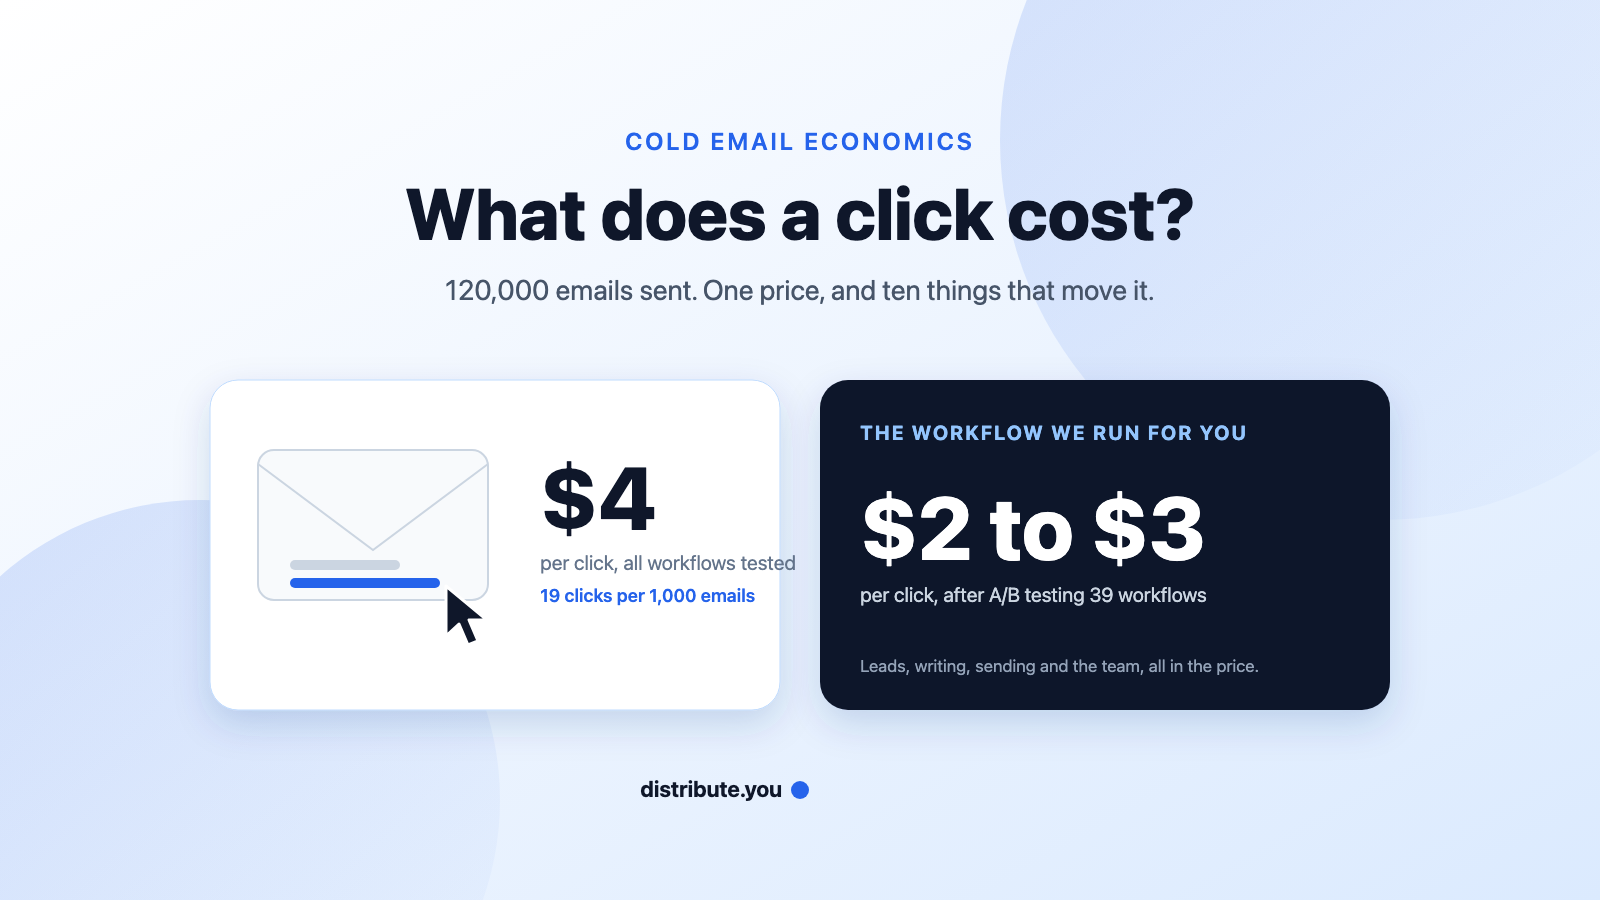
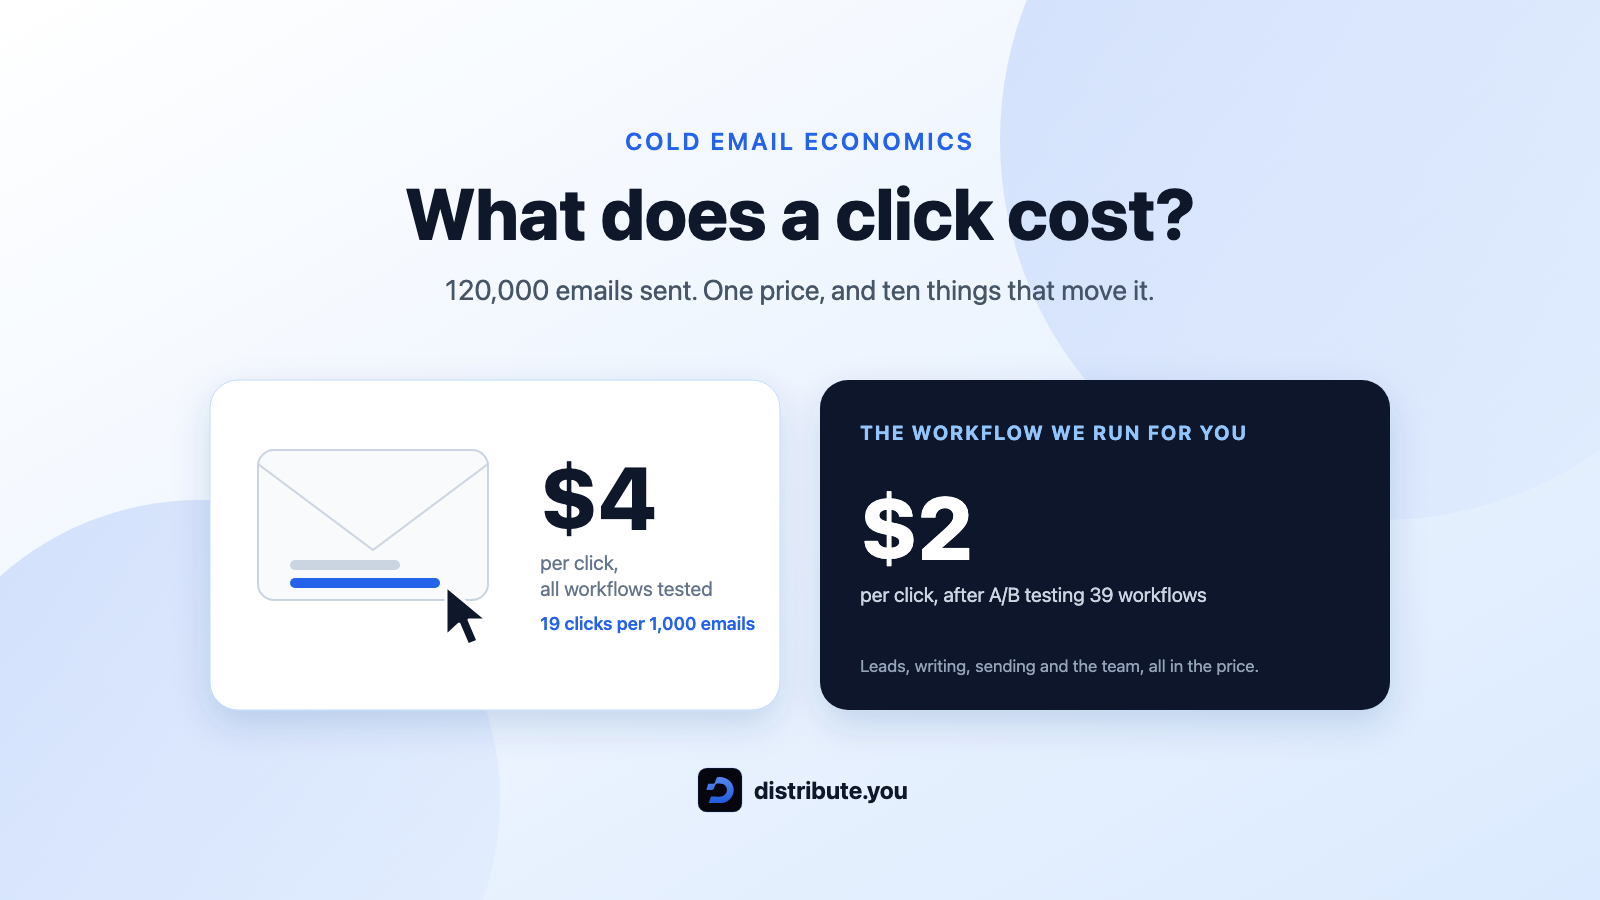
feat(landing): the cost-per-click article states one client price, $2, and the hero carries the brand mark
The client price is the best workflow alone, $2, stated everywhere the
article names it (answer, comparison verdict and table, closing section,
excerpt, hero); the "$2 to $3" range and the four-workflow chart are gone.
The hero's "all workflows tested" line no longer runs past its card, and the
footer draws the real brand mark beside the wordmark.

Changed region(s): [[0.3438, 0.6222, 0.5, 0.7156], [0.5938, 0.5289, 0.75, 0.6222], [0.4062, 0.84, 0.5625, 0.9022]]

diff --git a/apps/landing/content/blog/cost-per-click-cold-email/article.html b/apps/landing/content/blog/cost-per-click-cold-email/article.html
@@ -8,30 +8,7 @@
 
 <h2 id="the-answer">The answer</h2>
 
-<p><strong>A click costs $4</strong> across every workflow we tested, with 19 clicks per 1,000 emails. The workflows that won the A/B tests, the ones we run for clients today, buy a click for <strong>$2 to $3</strong>.</p>
-
-<figure>
-<svg viewBox="0 0 800 298" width="100%" role="img" aria-label="Cost per click, the four best workflows (USD, lower is better): Pelican $2, Osprey $2, Rampart $3, Legato $3" font-family="Inter, system-ui, sans-serif">
-<text x="0" y="22" font-size="16" font-weight="600" fill="#0f172a">Cost per click, the four best workflows (USD, lower is better)</text>
-<text x="0" y="74" font-size="14" fill="#475569">Pelican</text>
-<rect x="110" y="56" width="464" height="26" rx="5" fill="#2563eb"/>
-<text x="584" y="75" font-size="16" font-weight="700" fill="#0f172a">$2</text>
-<text x="110" y="95" font-size="11" fill="#94a3b8">23.8 clicks per 1,000 emails, 3,861 emails</text>
-<text x="0" y="126" font-size="14" fill="#475569">Osprey</text>
-<rect x="110" y="108" width="490" height="26" rx="5" fill="#93c5fd"/>
-<text x="610" y="127" font-size="16" font-weight="700" fill="#0f172a">$2</text>
-<text x="110" y="147" font-size="11" fill="#94a3b8">27.5 clicks per 1,000 emails, 1,562 emails</text>
-<text x="0" y="178" font-size="14" fill="#475569">Rampart</text>
-<rect x="110" y="160" width="589" height="26" rx="5" fill="#93c5fd"/>
-<text x="709" y="179" font-size="16" font-weight="700" fill="#0f172a">$3</text>
-<text x="110" y="199" font-size="11" fill="#94a3b8">24 clicks per 1,000 emails, 6,085 emails</text>
-<text x="0" y="230" font-size="14" fill="#475569">Legato</text>
-<rect x="110" y="212" width="600" height="26" rx="5" fill="#93c5fd"/>
-<text x="720" y="231" font-size="16" font-weight="700" fill="#0f172a">$3</text>
-<text x="110" y="251" font-size="11" fill="#94a3b8">17.6 clicks per 1,000 emails, 3,697 emails</text>
-<text x="0" y="286" font-size="13" fill="#64748b">Workflows with at least 1,000 emails and 20 clicks. These are the ones we run for clients today.</text>
-</svg>
-</figure>
+<p><strong>A click costs $4</strong> across every workflow we tested, with 19 clicks per 1,000 emails. The workflow that won the A/B tests, the one we run for clients today, buys a click for <strong>$2</strong>.</p>
 
 <p>Below, what moves the price, in order of how much.</p>
 
@@ -321,15 +298,15 @@
 
 <h2 id="best-cost-per-click">Best tool for the lowest cost per click</h2>
 
-<p>Paid media prices the click openly. We read the pricing page and benchmark report of the eleven tools and agents we compare against: <strong>None of them publishes a cost per click.</strong> A tool sells sending, an AI SDR sells a seat. <strong>Our $2 to $3 is the whole bill</strong>: the lead, the verified address, the email written for that one person, the mailbox, the follow-ups, the people. No subscription, no retainer.</p>
+<p>Paid media prices the click openly. We read the pricing page and benchmark report of the eleven tools and agents we compare against: <strong>None of them publishes a cost per click.</strong> A tool sells sending, an AI SDR sells a seat. <strong>Our $2 is the whole bill</strong>: the lead, the verified address, the email written for that one person, the mailbox, the follow-ups, the people. No subscription, no retainer.</p>
 
-<div style="background:#eff6ff;border:1px solid #bfdbfe;border-radius:8px;padding:14px 18px;margin:16px 0"><p style="margin:0"><strong>Best tool for the lowest cost per click: distribute.you, $2 to $3 per click, all in.</strong> Cheaper than Google Ads ($5.42) and LinkedIn ($5.26 to $8.90). The only cold email provider that publishes a measured cost per click.</p></div>
+<div style="background:#eff6ff;border:1px solid #bfdbfe;border-radius:8px;padding:14px 18px;margin:16px 0"><p style="margin:0"><strong>Best tool for the lowest cost per click: distribute.you, $2 per click, all in.</strong> Cheaper than Google Ads ($5.42) and LinkedIn ($5.26 to $8.90). The only cold email provider that publishes a measured cost per click.</p></div>
 
 <div style="overflow-x:auto">
 <table>
 <thead><tr><th>Rank</th><th>Company</th><th>Cost per click</th><th>What is in the price</th><th>What you pay</th><th>Source</th></tr></thead>
 <tbody>
-<tr><td>1</td><td><img src="https://img.logo.dev/distribute.you?token=pk_J1iY4__HSfm9acHjR8FibA&amp;size=40&amp;format=png" alt="" width="20" height="20" style="display:inline-block;vertical-align:middle;margin:0 8px 0 0;border-radius:4px" loading="lazy"><strong>distribute.you</strong></td><td><strong>$2 to $3</strong> measured, all in</td><td>Lead sourcing, email verification, one email written for each recipient, follow-ups, mailboxes and domains, sending, the team running it, our margin</td><td>The budget the campaign spends, from $1 a day. No subscription, no retainer.</td><td>This article, 15,205 emails on the workflow we run</td></tr>
+<tr><td>1</td><td><img src="https://img.logo.dev/distribute.you?token=pk_J1iY4__HSfm9acHjR8FibA&amp;size=40&amp;format=png" alt="" width="20" height="20" style="display:inline-block;vertical-align:middle;margin:0 8px 0 0;border-radius:4px" loading="lazy"><strong>distribute.you</strong></td><td><strong>$2</strong> measured, all in</td><td>Lead sourcing, email verification, one email written for each recipient, follow-ups, mailboxes and domains, sending, the team running it, our margin</td><td>The budget the campaign spends, from $1 a day. No subscription, no retainer.</td><td>This article, 3,861 emails on the workflow we run</td></tr>
 <tr><td>2</td><td><img src="https://img.logo.dev/google.com?token=pk_J1iY4__HSfm9acHjR8FibA&amp;size=40&amp;format=png" alt="" width="20" height="20" style="display:inline-block;vertical-align:middle;margin:0 8px 0 0;border-radius:4px" loading="lazy">Google Ads, all industries</td><td>$5.42</td><td>The click. You write the ads and the landing page.</td><td>Pay per click</td><td><a href="https://localiq.com/blog/search-advertising-benchmarks/" rel="nofollow noopener">LocaliQ with WordStream, 2026 benchmarks</a>, read 2026-09-10</td></tr>
 <tr><td>3</td><td><img src="https://img.logo.dev/google.com?token=pk_J1iY4__HSfm9acHjR8FibA&amp;size=40&amp;format=png" alt="" width="20" height="20" style="display:inline-block;vertical-align:middle;margin:0 8px 0 0;border-radius:4px" loading="lazy">Google Ads, business services</td><td>$5.87</td><td>The click. You write the ads and the landing page.</td><td>Pay per click</td><td><a href="https://localiq.com/blog/search-advertising-benchmarks/" rel="nofollow noopener">LocaliQ with WordStream, 2026 benchmarks</a>, read 2026-09-10</td></tr>
 <tr><td>4</td><td><img src="https://img.logo.dev/linkedin.com?token=pk_J1iY4__HSfm9acHjR8FibA&amp;size=40&amp;format=png" alt="" width="20" height="20" style="display:inline-block;vertical-align:middle;margin:0 8px 0 0;border-radius:4px" loading="lazy">LinkedIn sponsored content</td><td>$5.26 to $8.90</td><td>The click. You write the post and the landing page.</td><td>Pay per click</td><td><a href="https://adlibrary.com/posts/linkedin-advertising-costs-2026" rel="nofollow noopener">AdLibrary, LinkedIn costs 2026</a>, read 2026-09-10</td></tr>
@@ -369,7 +346,7 @@
 
 <h2 id="for-you">What it means if we run your campaigns</h2>
 
-<p>You do not set any of this by hand. Each campaign on distribute.you runs on the workflow with the best measured cost for what it is buying, across every client, and that pick moves as the data above moves. Today that is a click for $2 to $3. You pay the budget the campaign spent, nothing else, and the cost of each click lands on your dashboard.</p>
+<p>You do not set any of this by hand. Each campaign on distribute.you runs on the workflow with the best measured cost for what it is buying, across every client, and that pick moves as the data above moves. Today that is a click for $2. You pay the budget the campaign spent, nothing else, and the cost of each click lands on your dashboard.</p>
 
 <p><a href="/">Start with your website URL</a>. The first 30 USD are on us.</p>
 

diff --git a/apps/landing/tests/unit/blog-cost-per-click.test.ts b/apps/landing/tests/unit/blog-cost-per-click.test.ts
@@ -120,13 +120,16 @@ describe("cost-per-click article: editorial rules", () => {
     expect(story).not.toContain('id="the-link"');
     expect(story).not.toContain("unsubscribe");
     expect(story).toMatch(/<h2 id="the-answer">The answer<\/h2>\s*<p><strong>A click costs \$4<\/strong> across every workflow we tested/);
-    expect(story).toContain("buy a click for <strong>$2 to $3</strong>");
+    expect(story).toContain("buys a click for <strong>$2</strong>");
+    // Owner-decided 2026-09-10: one client price, the best workflow alone; no range, no four-workflow chart.
+    expect(story).not.toContain("$2 to $3");
+    expect(story).not.toContain("four best workflows");
     expect(method).toContain("28,482 emails to 15,316 people carried a link");
   });
 
   it("the charts are inline SVGs that scale with the column and carry a text alternative", () => {
     const tags = html.match(/<svg[^>]*>/g) ?? [];
-    expect(tags.length).toBe(13);
+    expect(tags.length).toBe(12);
     for (const tag of tags) {
       expect(tag).toContain('viewBox="0 0 800 ');
       expect(tag).toContain('width="100%"');
@@ -138,7 +141,7 @@ describe("cost-per-click article: editorial rules", () => {
 
   it("every bar chart says lower is better and prices in USD", () => {
     const bars = svgs.filter((svg) => svg.includes("<rect") && svg.includes("clicks per 1,000 emails"));
-    expect(bars.length).toBe(12);
+    expect(bars.length).toBe(11);
     for (const svg of bars) expect(svg).toContain("(USD, lower is better)");
   });
 
@@ -155,11 +158,12 @@ describe("cost-per-click article: editorial rules", () => {
 
 describe("cost-per-click article: dataset coherence", () => {
   it("story, charts, hero and method state the same headline figures", () => {
-    for (const figure of ["$4", "$2 to $3", "$2", "$6", "$7", "$7,940", "$2,033", "530", "28,482"]) {
+    for (const figure of ["$4", "$2", "$6", "$7", "$7,940", "$2,033", "530", "28,482"]) {
       expect(html).toContain(figure);
     }
     expect(hero).toContain(">$4<");
-    expect(hero).toContain("$2 to $3");
+    expect(hero).toContain(">$2<");
+    expect(hero).not.toContain("$2 to $3");
     expect(hero).toContain("19 clicks per 1,000 emails");
   });
 
@@ -251,7 +255,7 @@ describe("cost-per-click article: dataset coherence", () => {
     expect(story).not.toContain('id="the-market"');
     expect(story).not.toContain('id="best-click-rate"');
     for (const [section, verdict] of [
-      [cpc, "Best tool for the lowest cost per click: distribute.you, $2 to $3 per click, all in."],
+      [cpc, "Best tool for the lowest cost per click: distribute.you, $2 per click, all in."],
     ] as const) {
       // Tint plus a full 1px border, never a side accent.
       expect(section).toMatch(new RegExp(`<div style="background:#eff6ff;border:1px solid #bfdbfe;[^"]*"><p style="margin:0"><strong>${verdict.replace(/[.$()]/g, "\\$&")}</strong>`));
@@ -270,7 +274,7 @@ describe("cost-per-click article: dataset coherence", () => {
     // Cost per click: ours is the only cold email row with a measured price.
     expect(cpc.match(/<tr><td>[\s\S]*?<\/tr>/g)!.slice(4).every((row) => row.includes("<td>Not published"))).toBe(true);
     expect(cpc).toContain("<strong>None of them publishes a cost per click.</strong>");
-    expect(cpc).toContain("<strong>Our $2 to $3 is the whole bill</strong>");
+    expect(cpc).toContain("<strong>Our $2 is the whole bill</strong>");
   });
 
   it("every comparison table carries a logo per row, ours included, and the price section states all-in", () => {
